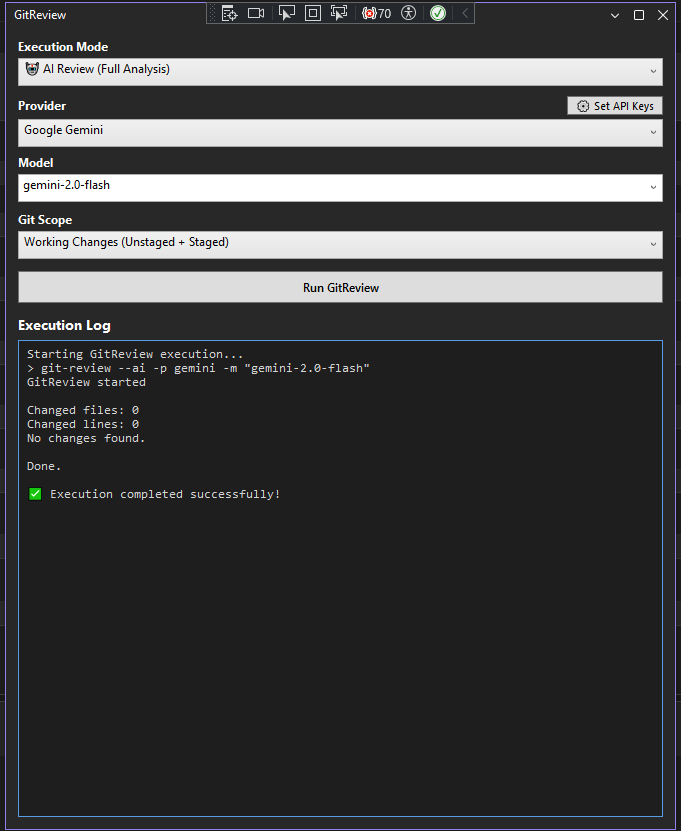
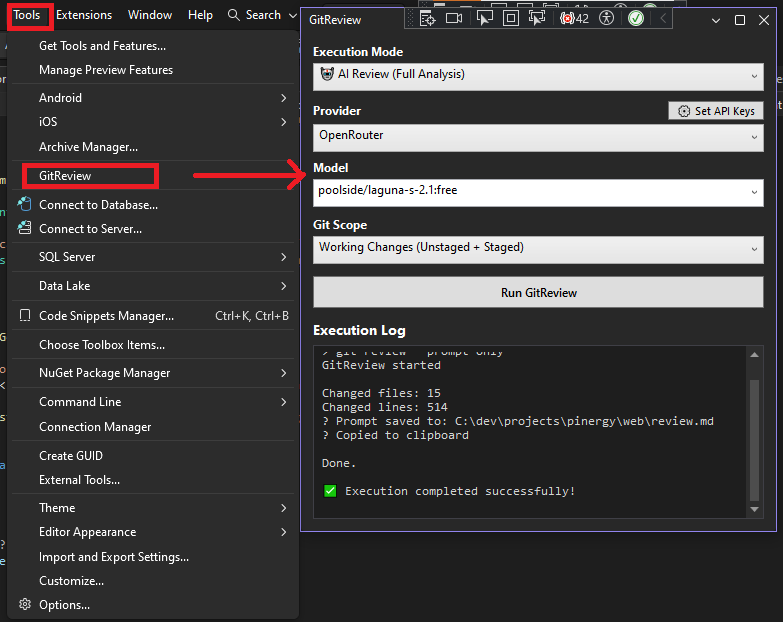
feat: screenshot added

diff --git a/GitReview.VisualStudio/README.md b/GitReview.VisualStudio/README.md
@@ -2,6 +2,10 @@
 
 GitReview brings AI-powered code reviews directly into Visual Studio. Analyze your Git diffs before committing or creating pull requests using top LLM providers, including OpenRouter, Google Gemini, and DeepSeek.
 
+<p align="center">
+  <img src="./Assets/example-screenshot.png" alt="GitReview Tool Window in Visual Studio" />
+</p>
+
 ## Features
 
 * Instant AI Code Reviews: Get inline feedback, bug detection, and optimization suggestions right inside Visual Studio.
